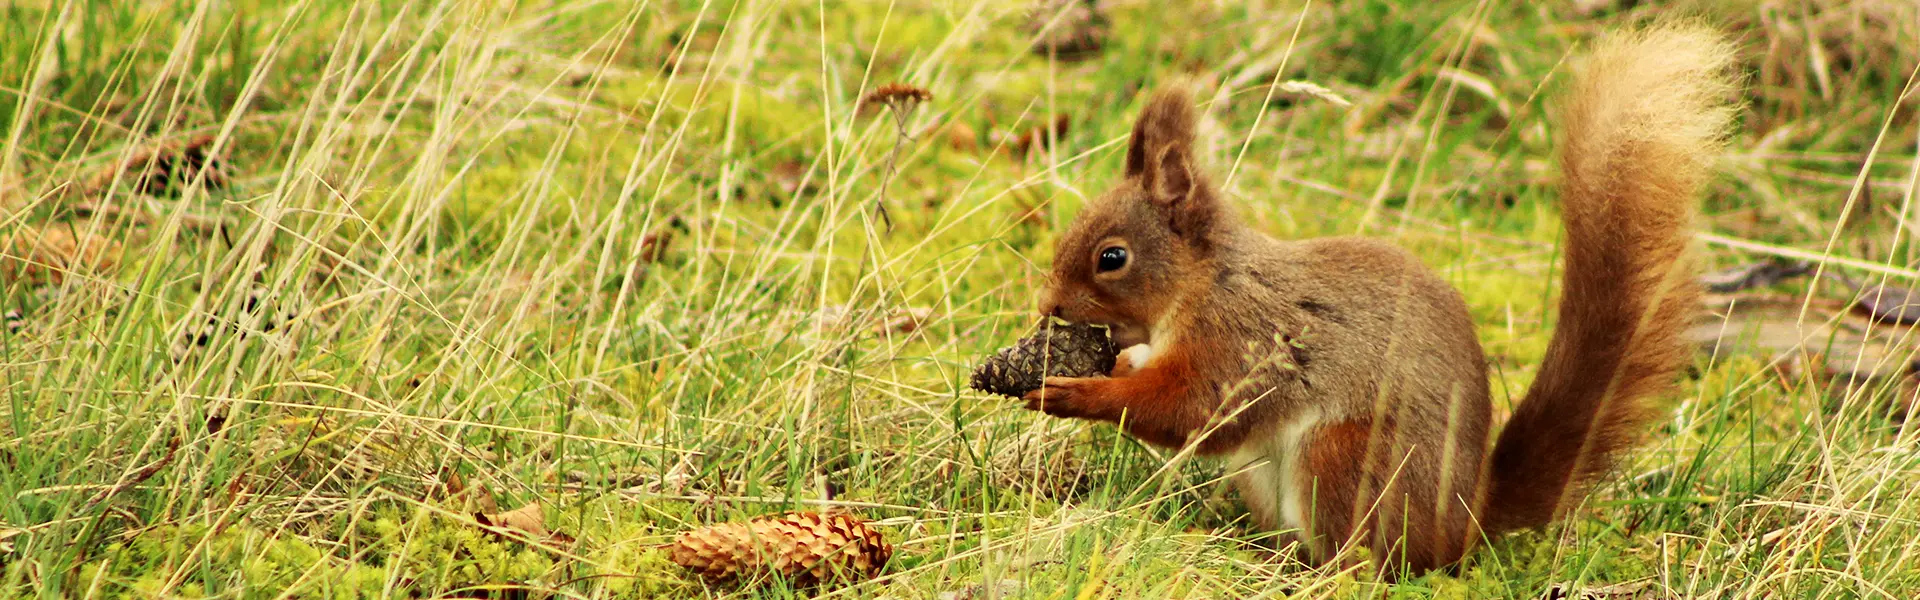
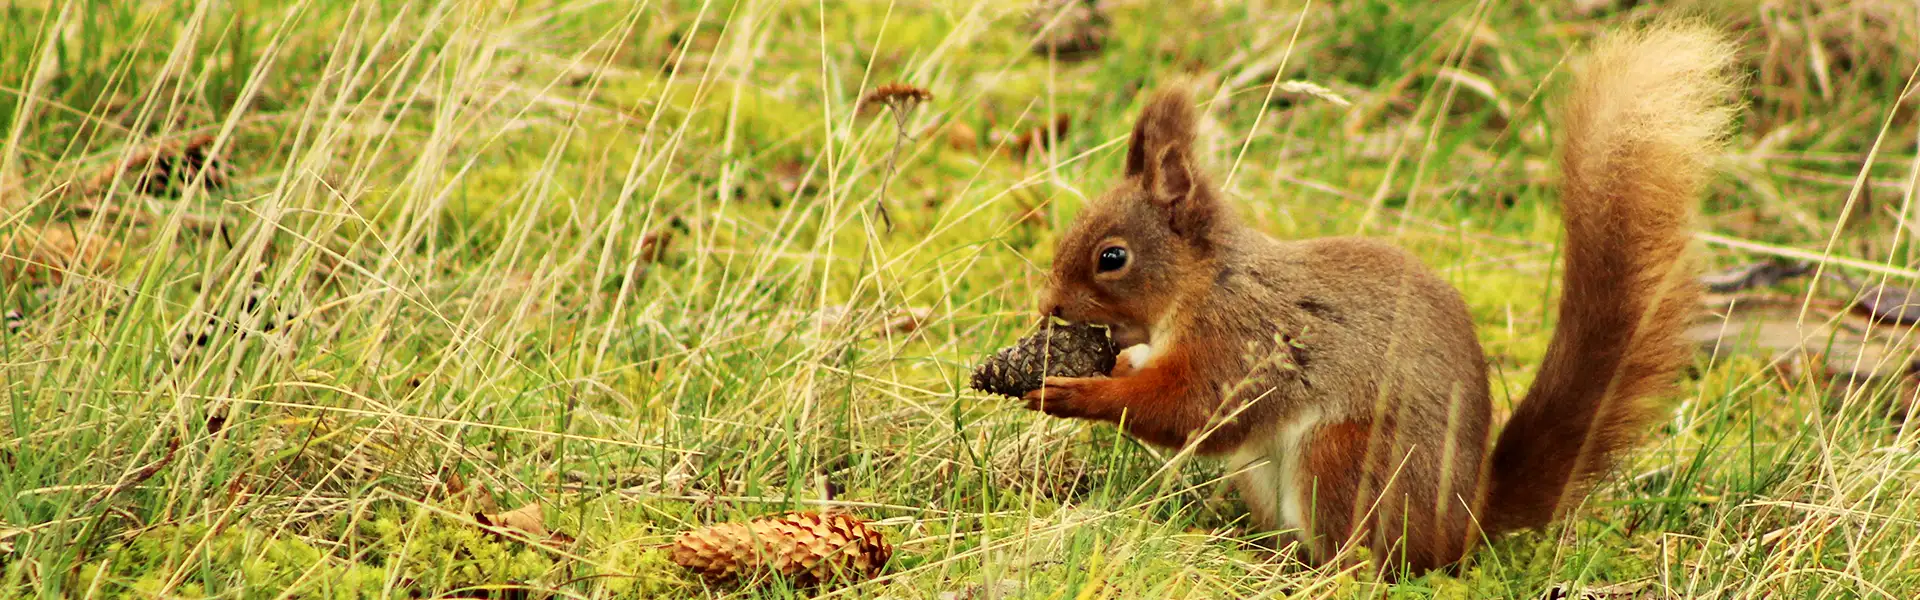
Replace desktop hero images and remove unused image

diff --git a/contact.html b/contact.html
@@ -30,7 +30,8 @@
     <nav id="navbar" class="navbar navbar-expand-lg fixed-top">
         <div class="container">
             <a class="navbar-brand" href="index.html">
-                <img class="logo" src="assets/images/there-and-back-again-logo.svg" alt="There & Back Again Logo">
+                <img width="259" height="28" class="logo" src="assets/images/there-and-back-again-logo.svg"
+                    alt="There & Back Again Logo">
             </a>
             <button class="navbar-toggler" type="button" data-bs-toggle="collapse" data-bs-target="#navbarNav"
                 aria-controls="navbarNav" aria-expanded="false" aria-label="Toggle navigation">
@@ -123,8 +124,8 @@
             <div class="container">
                 <div class="row">
                     <div class="col-12 col-lg-6 d-lg-flex flex-lg-column justify-content-lg-center">
-                        <img class="footer-logo mb-1" src="assets/images/there-and-back-again-footer-logo.svg"
-                            alt="There & Back Again Logo">
+                        <img width="259" height="28" class="footer-logo mb-1"
+                            src="assets/images/there-and-back-again-footer-logo.svg" alt="There & Back Again Logo">
                         <p class="text-white small-text mb-lg-0">Copyright &copy; 2024 Jordan Crouch</p>
                     </div>
                     <div class="col-12 col-lg-6 d-lg-flex align-items-lg-center justify-content-lg-end">

diff --git a/TESTING.md b/TESTING.md
@@ -250,7 +250,9 @@ All pages of the website were tested using Google PSI and produced the following
 
 The primary issue identified with lower performance scores on mobile was related to the largest contentful pain element of the hero images. Due to the file size, it was taking longer for these to load on mobile, despite being compressed and exported served in WebP format. I tried to refrain from compressing these images too much, as I wanted them to remain as high quality as possible.
 
-In order to resolve this and improve mobile performance, I decided to create mobile image sizes for the hero images and implement them as [responsive images](https://developer.mozilla.org/en-US/docs/Learn/HTML/Multimedia_and_embedding/Responsive_images).
+In order to attempt to resolve this and improve mobile performance, I decided to create mobile image sizes for the hero images and implement them as [responsive images](https://developer.mozilla.org/en-US/docs/Learn/HTML/Multimedia_and_embedding/Responsive_images).
+
+However, after implementing these responsive images and checking the performance on Google PSI, it didn't have any impact. As a result, I decided to further compress the primary images used in an attempt to further reduce their file size, without causing the image quality to deteriorate too much.
 
 #### Eliminate render-blocking resources
 
@@ -262,7 +264,7 @@ Similar to largest contentful paint, on mobile there are some images that are re
 
 #### Image elements do not have explicit width and height
 
-Images identified as having missing explicit width and height attributes had these values added to resolve report. This caused some of the images to appear stretched vertically, but by adding auto height style to the images, they displayed correctly.
+Images identified as having missing explicit width and height attributes had these values added to resolve report. This caused some of the images to appear stretched vertically, but by adding the auto height Bootstrap utility class to the images to make sure they scale at the correct aspect ratio to their width, they then displayed correctly.
 
 ####
 
